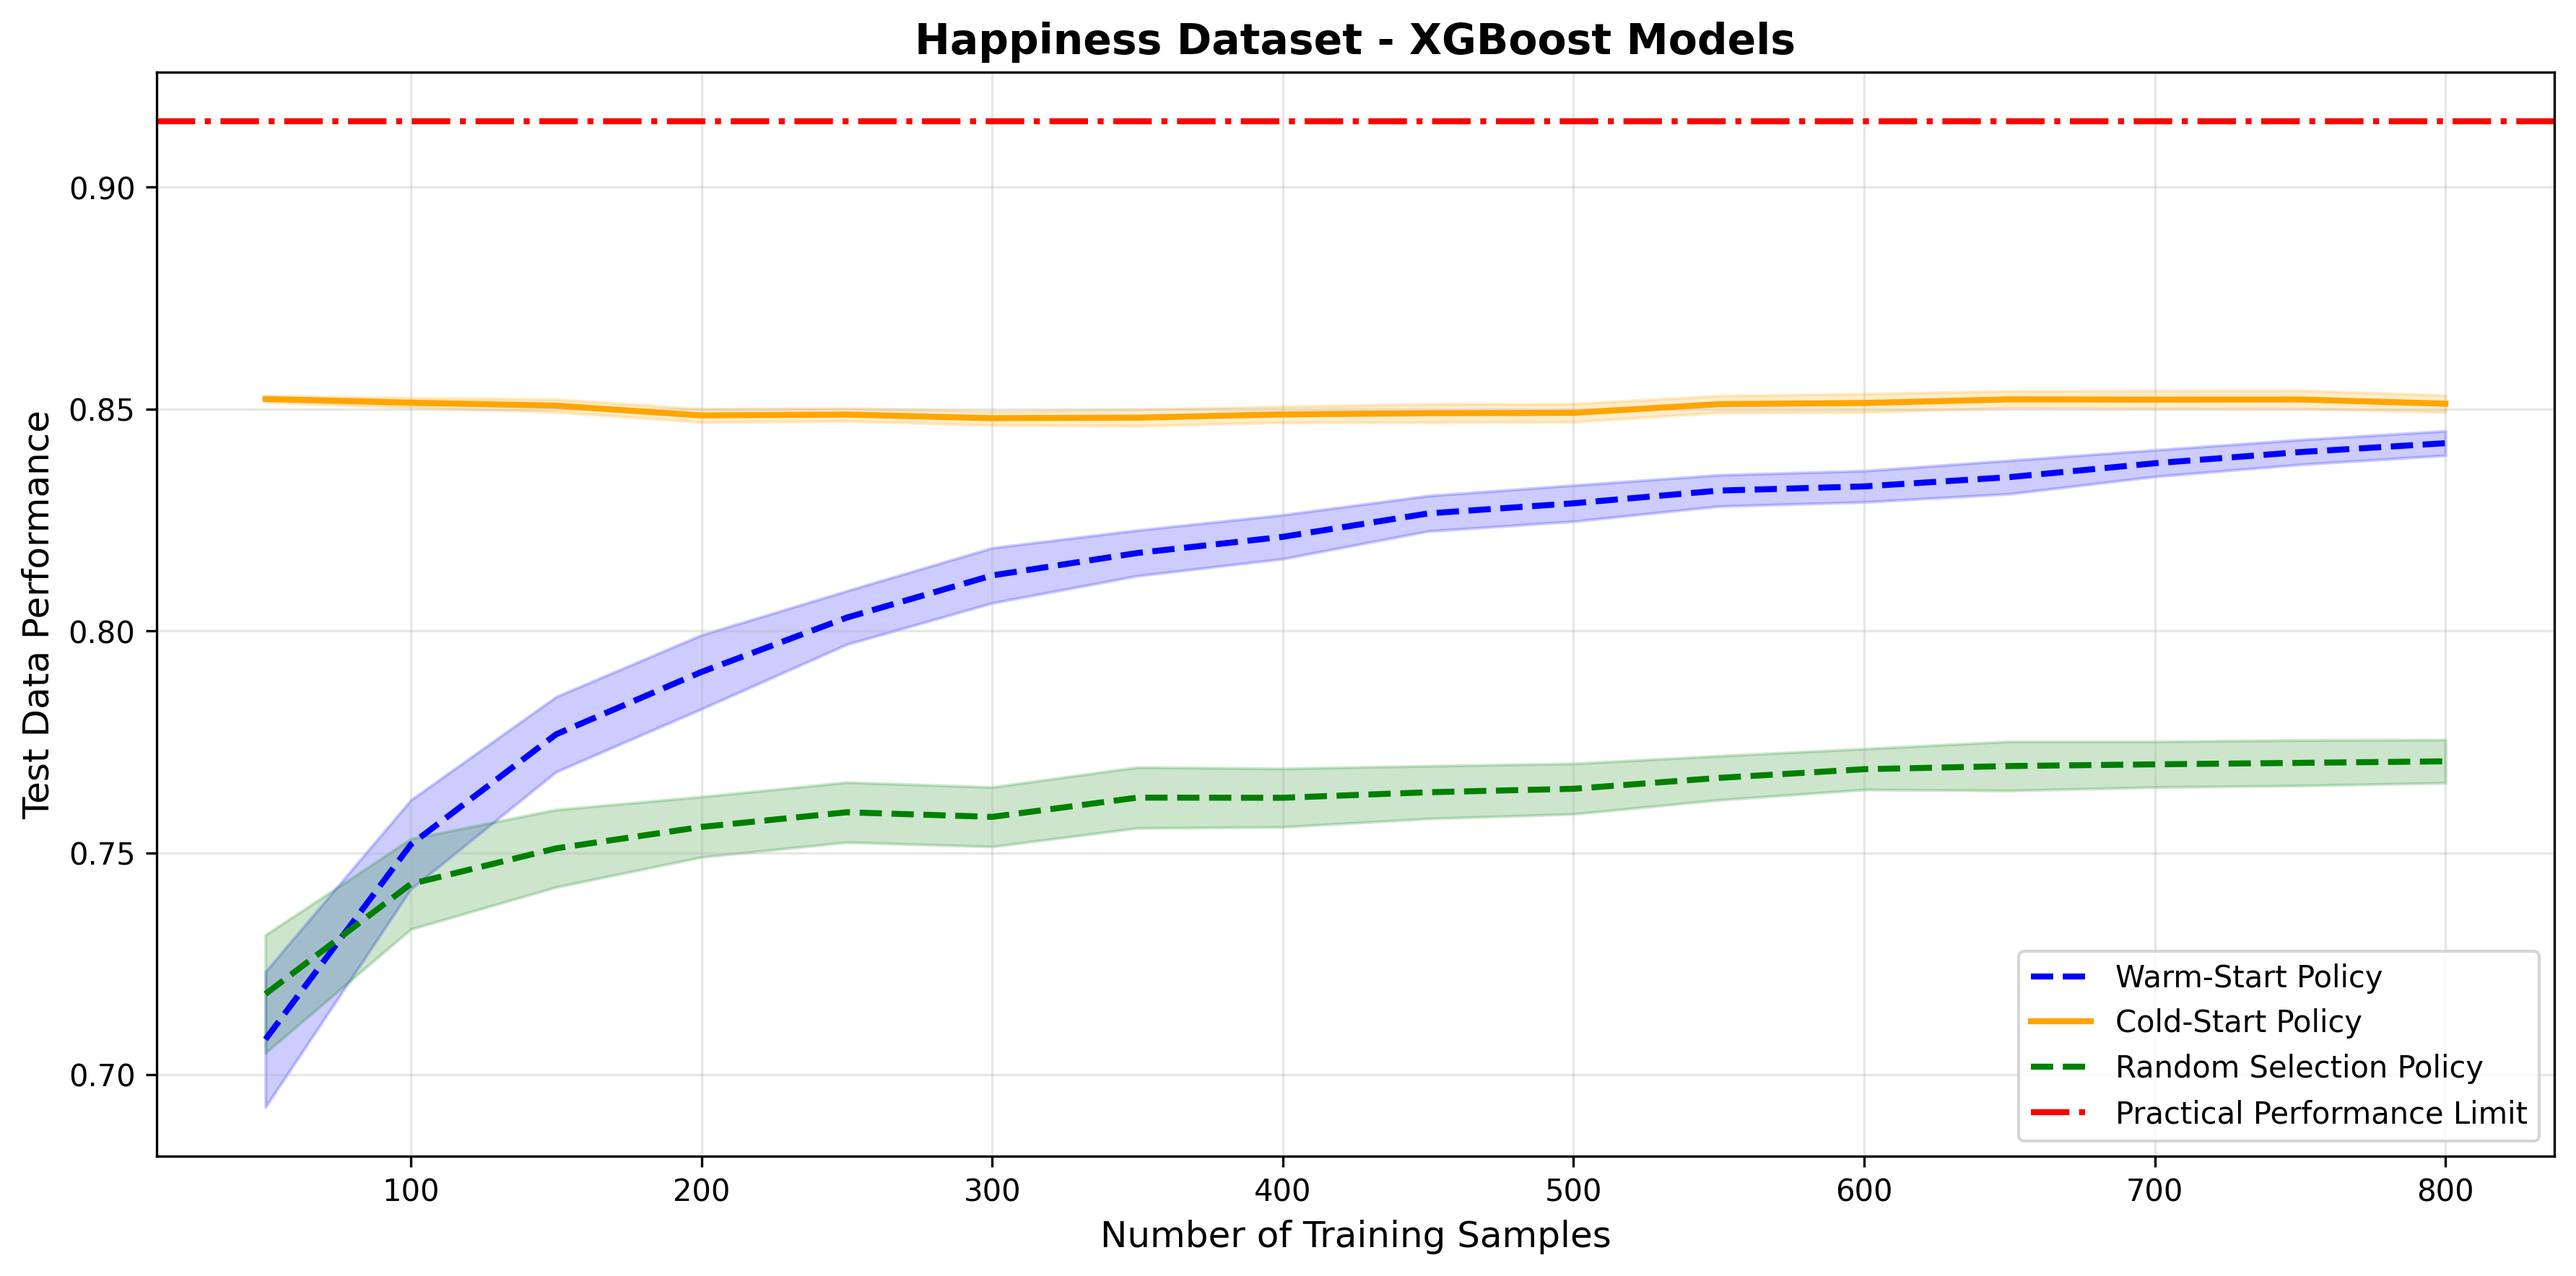
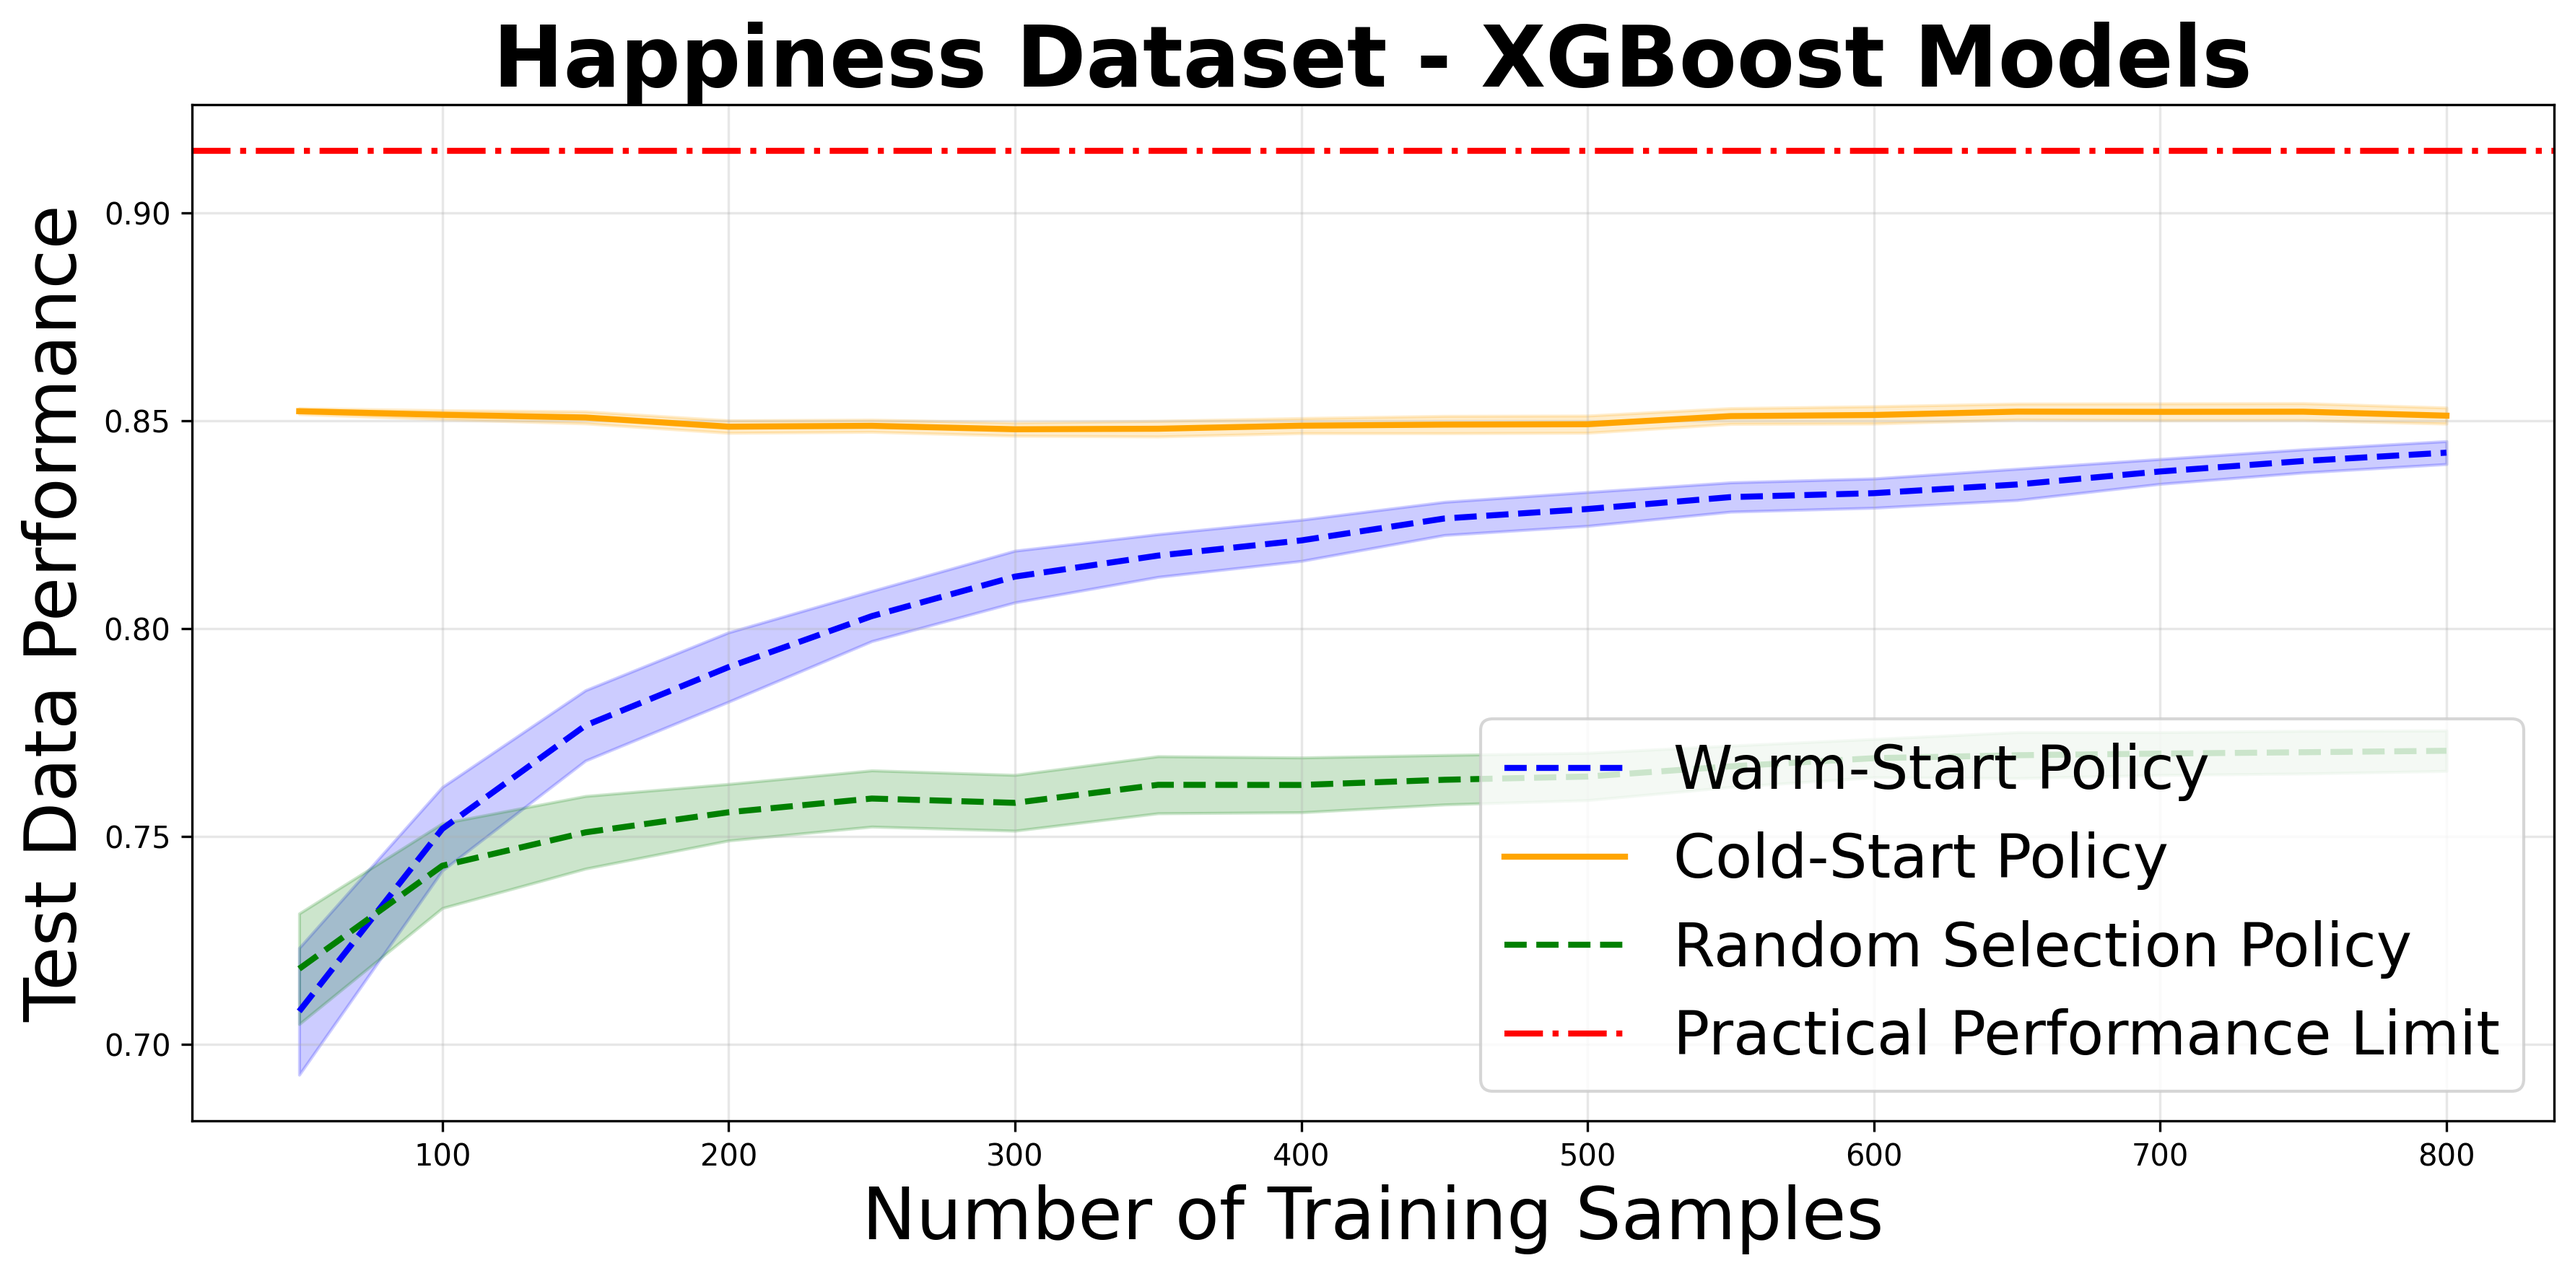
Increase plot font size

diff --git a/plot_generator.py b/plot_generator.py
@@ -117,10 +117,10 @@ while True:
     ax1.axhline(y=acc_max_xgb, color='red', linestyle='dashdot',
                 label='Practical Performance Limit', linewidth=2)
 
-    ax1.set_xlabel('Number of Training Samples', fontsize=12)
-    ax1.set_ylabel('Test Data Performance', fontsize=12)
-    ax1.set_title(f'{"FIFA" if path == 'fifa' else path.capitalize()} Dataset - XGBoost Models', fontsize=14, fontweight='bold')
-    ax1.legend(fontsize=10, loc='best')
+    ax1.set_xlabel('Number of Training Samples', fontsize=24)
+    ax1.set_ylabel('Test Data Performance', fontsize=24)
+    ax1.set_title(f'{"FIFA" if path == 'fifa' else path.capitalize()} Dataset - XGBoost Models', fontsize=28, fontweight='bold')
+    ax1.legend(fontsize=20, loc='best')
     ax1.grid(True, alpha=0.3)
 
     plt.tight_layout()
@@ -163,10 +163,10 @@ while True:
     ax2.axhline(y=acc_max_regression, color='red', linestyle='dashdot',
                 label='Practical Performance Limit', linewidth=2)
 
-    ax2.set_xlabel('Number of Training Samples', fontsize=12)
-    ax2.set_ylabel('Test Data Performance', fontsize=12)
-    ax2.set_title(f'{"FIFA" if path == 'fifa' else path.capitalize()} Dataset - Logistic Regression Models', fontsize=14, fontweight='bold')
-    ax2.legend(fontsize=10, loc='best')
+    ax2.set_xlabel('Number of Training Samples', fontsize=24)
+    ax2.set_ylabel('Test Data Performance', fontsize=24)
+    ax2.set_title(f'{"FIFA" if path == 'fifa' else path.capitalize()} Dataset - Logistic Regression Models', fontsize=28, fontweight='bold')
+    ax2.legend(fontsize=20, loc='best')
     ax2.grid(True, alpha=0.3)
 
     plt.tight_layout()
